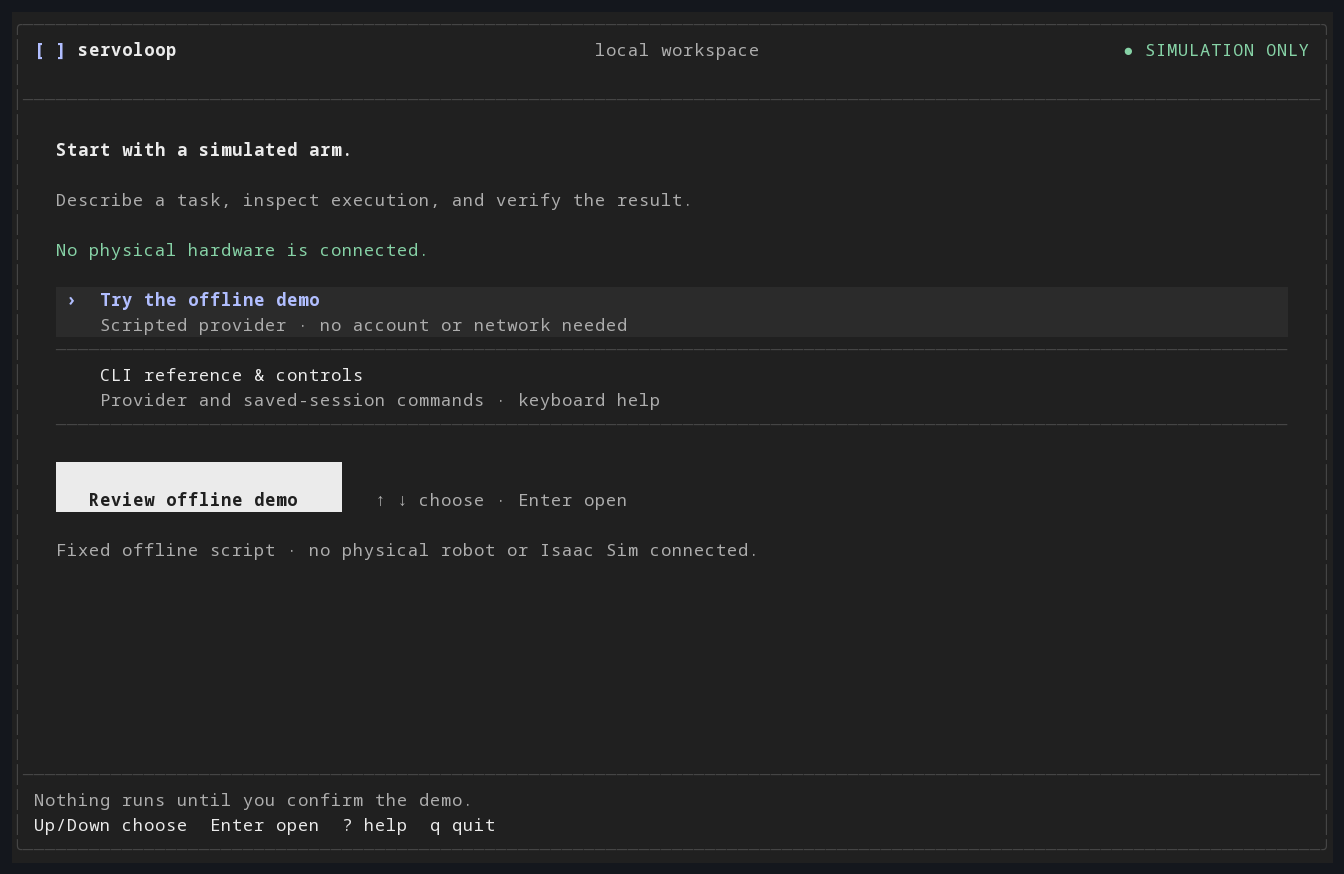
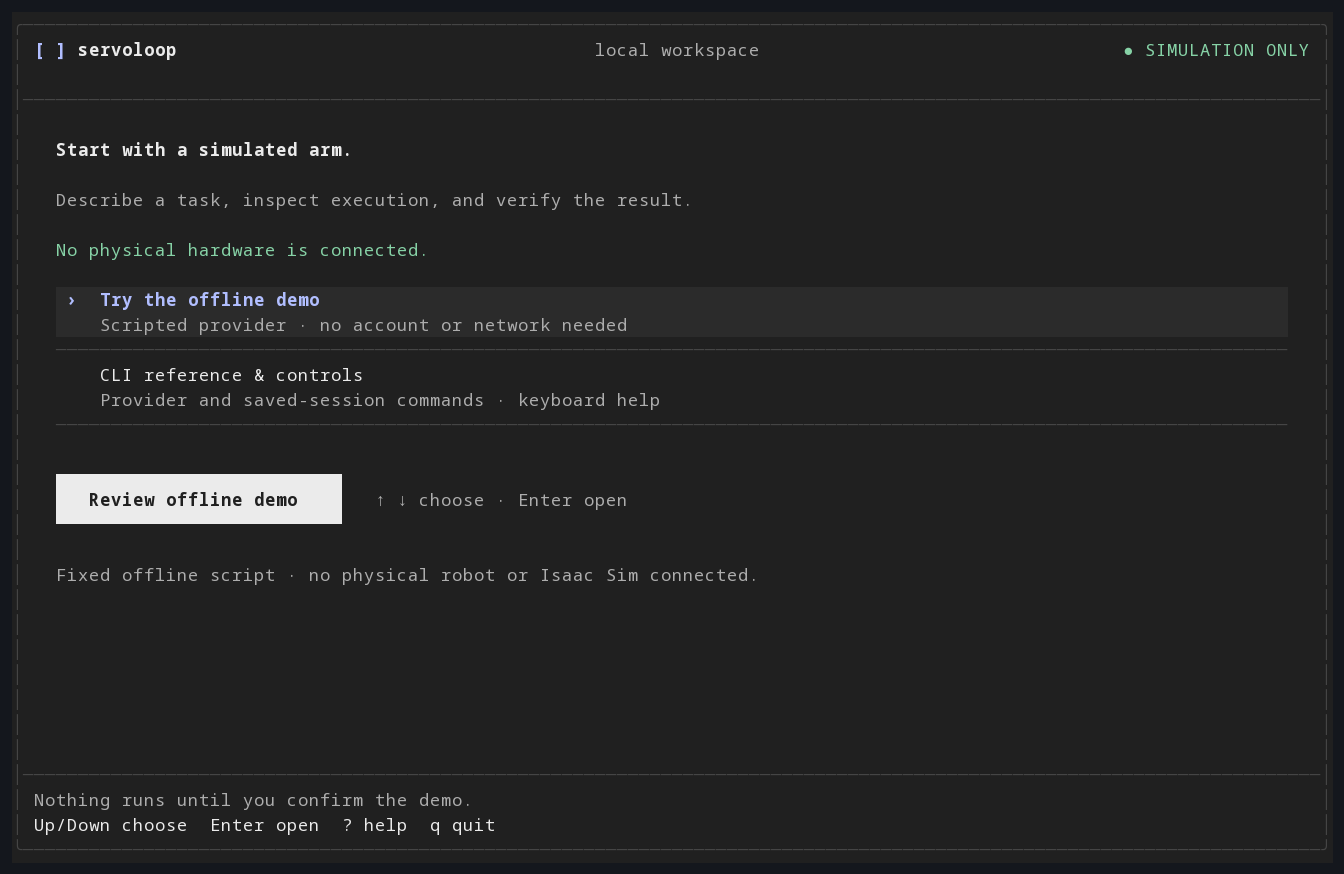
Center primary button labels with balanced vertical padding

diff --git a/apps/servoloop-cli/src/ui/view.rs b/apps/servoloop-cli/src/ui/view.rs
@@ -254,7 +254,7 @@ fn welcome(frame: &mut Frame, area: Rect, view: &View<'_>) -> usize {
     let [intro, menu, button, note] = Layout::vertical([
         Constraint::Length(if area.height >= 17 { 6 } else { 5 }),
         Constraint::Length(7),
-        Constraint::Length(if area.height >= 20 { 3 } else { 2 }),
+        Constraint::Length(if area.height >= 20 { 4 } else { 2 }),
         Constraint::Min(1),
     ])
     .areas(area);
@@ -352,7 +352,7 @@ fn review(frame: &mut Frame, area: Rect, view: &View<'_>) -> usize {
     let area = panel(frame, area, " Offline demo / review before running ", t);
     let [body, action] = Layout::vertical([
         Constraint::Min(1),
-        Constraint::Length(if area.height >= 20 { 3 } else { 2 }),
+        Constraint::Length(if area.height >= 20 { 4 } else { 2 }),
     ])
     .areas(area);
     let scroll = paragraph(
@@ -387,7 +387,7 @@ fn review(frame: &mut Frame, area: Rect, view: &View<'_>) -> usize {
 /// One terminal-sized button treatment for primary actions. The last row is
 /// spacing, not part of the button; short viewports use a one-line version.
 fn primary_action(frame: &mut Frame, area: Rect, label: &str, hint: &str, theme: Theme) {
-    let height = if area.height >= 3 { 2 } else { 1 };
+    let height = if area.height >= 4 { 3 } else { 1 };
     let width = 26.min(area.width);
     let style = if theme.bg == Color::Reset {
         theme
@@ -401,6 +401,18 @@ fn primary_action(frame: &mut Frame, area: Rect, label: &str, hint: &str, theme:
     };
     let button = Rect::new(area.x, area.y, width, height);
     frame.render_widget(Block::default().style(style), button);
+    if height == 3 && theme.bg != Color::Reset {
+        // Half-cell caps retain a two-cell visual height while placing the
+        // label between equal top and bottom padding. Monochrome uses full
+        // rows because the user's foreground/background colors are unknown.
+        let edge = Style::default().fg(theme.fg).bg(theme.bg);
+        for (y, glyph) in [(button.y, "▄"), (button.y + 2, "▀")] {
+            frame.render_widget(
+                Paragraph::new(glyph.repeat(usize::from(width))).style(edge),
+                Rect::new(button.x, y, width, 1),
+            );
+        }
+    }
     frame.render_widget(
         Paragraph::new(label)
             .alignment(Alignment::Center)
@@ -650,7 +662,7 @@ mod tests {
 
     #[test]
     fn primary_buttons_share_dimensions_and_center_labels() {
-        for height in [2, 3] {
+        for height in [2, 4] {
             for label in [
                 "Review offline demo ↵",
                 "Open CLI reference ↵",
@@ -662,10 +674,16 @@ mod tests {
                     .draw(|frame| primary_action(frame, frame.area(), label, "Esc back", theme))
                     .unwrap();
                 let buffer = terminal.backend().buffer();
-                let button_height = if height == 3 { 2 } else { 1 };
+                let button_height = if height == 4 { 3 } else { 1 };
                 for y in 0..button_height {
                     for x in 0..26 {
-                        assert_eq!(buffer[(x, y)].bg, theme.fg);
+                        if button_height == 3 && y != 1 {
+                            assert_eq!(buffer[(x, y)].symbol(), if y == 0 { "▄" } else { "▀" });
+                            assert_eq!(buffer[(x, y)].fg, theme.fg);
+                            assert_eq!(buffer[(x, y)].bg, theme.bg);
+                        } else {
+                            assert_eq!(buffer[(x, y)].bg, theme.fg);
+                        }
                     }
                     assert_ne!(buffer[(26, y)].bg, theme.fg);
                 }
